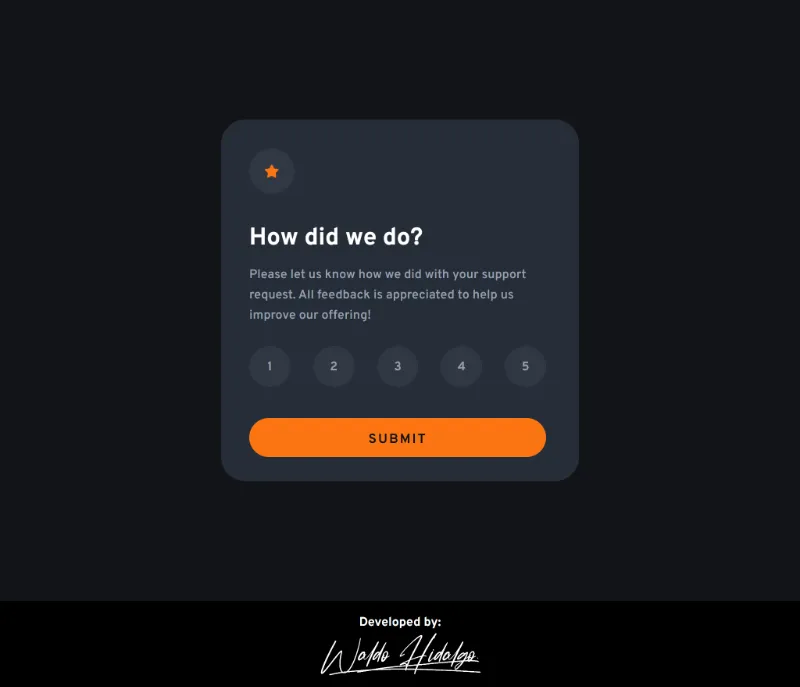
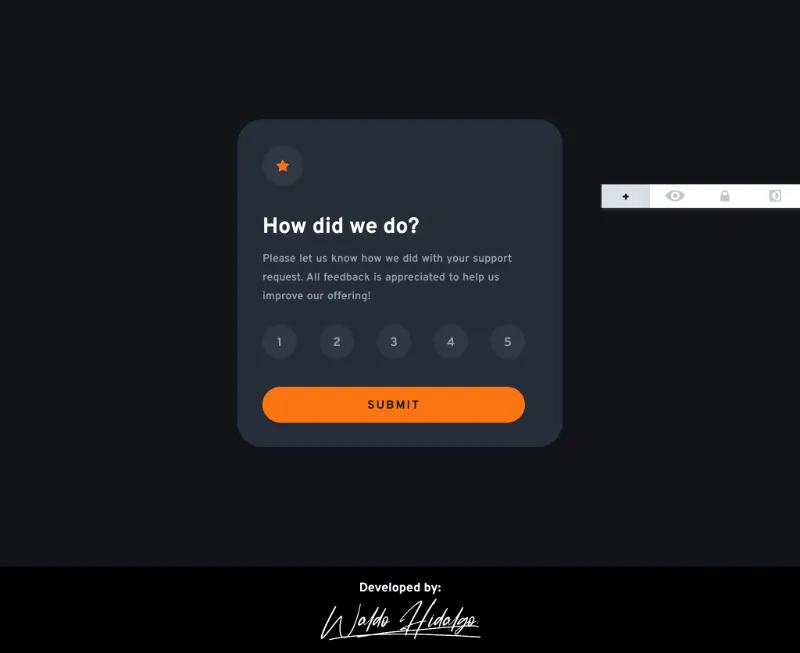
fix scale 1.1 to 1.0

diff --git a/src/components/Question.vue b/src/components/Question.vue
@@ -9,11 +9,11 @@ export default {
 </script>
 
 <template>
-  <div class="p-[27px_20px_31px_24px] sm:p-[37px_42px_31px_36px]">
-    <div class="inline-block p-[11px] bg-lightGray/10 rounded-full sm:p-[20px]">
+  <div class="p-[27px_20px_31px_24px] sm:p-[33px_48px_31px_32px]">
+    <div class="inline-block p-[11px] bg-lightGray/10 rounded-full sm:p-[18px]">
       <svg
         viewBox="0 0 17 16"
-        class="w-[14px] aspect-square sm:w-[18px]"
+        class="w-[14px] aspect-square sm:w-[16px]"
         xmlns="http://www.w3.org/2000/svg"
       >
         <path
@@ -23,18 +23,18 @@ export default {
       </svg>
     </div>
     <h2
-      class="font-bold text-[24px] text-white mt-[15px] sm:mt-[27px] sm:text-[31px]"
+      class="font-bold text-[24px] text-white mt-[15px] sm:mt-[24px] sm:text-[28px]"
     >
       How did we do?
     </h2>
     <p
-      class="text-lightGray mt-[9px] text-[14px] sm:leading-[26px] sm:[word-spacing:0px] sm:font-semibold sm:text-[16px]"
+      class="text-lightGray mt-[9px] text-[14px] sm:leading-[24px] sm:[word-spacing:1px] sm:font-semibold sm:mt-[8px]"
     >
       Please let us know how we did with your support request. All feedback is
       appreciated to help us improve our offering!
     </p>
     <ul
-      class="grid grid-cols-5 mt-[26px] justify-items-center gap-[18px] sm:gap-[29px]"
+      class="grid grid-cols-5 mt-[26px] justify-items-center gap-[18px] sm:gap-[29px] sm:mt-[23px]"
     >
       <li
         v-for="i in [1, 2, 3, 4, 5]"
@@ -52,7 +52,7 @@ export default {
       </li>
     </ul>
     <button
-      class="w-full bg-orange text-[14px] text-veryDarkBlue rounded-full mt-[25px] py-[14px] tracking-[2px] font-bold flex justify-center items-center hover:bg-white sm:mt-[40px] sm:py-[16px] sm:text-[17px]"
+      class="w-full bg-orange text-[14px] text-veryDarkBlue rounded-full mt-[25px] py-[14px] tracking-[2px] font-bold flex justify-center items-center hover:bg-white sm:mt-[36px] sm:py-[14px] sm:text-[15px]"
       aria-label="Submit rating"
       @click="$emit('submitRating')"
     >

diff --git a/src/components/Answer.vue b/src/components/Answer.vue
@@ -9,11 +9,11 @@ export default {
 </script>
 
 <template>
-  <div class="p-[27px_20px_31px_24px] text-center sm:p-[37px_34px_31px_34px]">
+  <div class="p-[27px_20px_31px_24px] text-center sm:p-[29px_25px_31px_25px]">
     <div class="w-fit mx-auto mt-[13px]">
       <svg
         viewBox="0 0 162 108"
-        class="w-[162px] aspect-[162/108] sm:w-[181px]"
+        class="w-[162px] aspect-[162/108] sm:w-[164px]"
         xmlns="http://www.w3.org/2000/svg"
       >
         <g fill="none">
@@ -103,19 +103,19 @@ export default {
       </svg>
     </div>
     <div
-      class="text-orange text-[15px] bg-lightGray/10 p-[9px_14px] w-fit mx-auto mt-[25px] tracking-[0.2px] rounded-[18px/50%] flex justify-center items-center sm:text-[16px] sm:mt-[36px] sm:px-[22px]"
+      class="text-orange text-[15px] bg-lightGray/10 p-[9px_14px] w-fit mx-auto mt-[25px] tracking-[0.2px] rounded-[18px/50%] flex justify-center items-center sm:text-[14px] sm:mt-[30px] sm:px-[22px]"
     >
       <span class="h-[17px] inline-block"
         >You selected {{ rating }} out of 5</span
       >
     </div>
     <h2
-      class="text-white font-bold text-[26px] mt-[32px] sm:mt-[42px] sm:text-[31px]"
+      class="text-white font-bold text-[26px] mt-[32px] sm:mt-[33px] sm:text-[28px]"
     >
       Thank you!
     </h2>
     <p
-      class="text-lightGray text-[15px] mt-[11px] leading-[24px] [word-spacing:1px] sm:mt-[5px] sm:leading-[26px] sm:text-[16px] sm:font-medium sm:pe-[15px]"
+      class="text-lightGray text-[15px] mt-[11px] leading-[24px] [word-spacing:1px] sm:mt-[5px] sm:leading-[24px] sm:text-[15px] sm:font-medium sm:pe-[10px]"
     >
       We appreciate you taking the time to give a rating. If you ever need more
       support, don't hesitate to get in touch!

diff --git a/src/App.vue b/src/App.vue
@@ -32,7 +32,7 @@ export default {
 <template>
   <main class="py-[153px] bg-veryDarkBlue">
     <div
-      class="bg-darkBlue w-[87%] rounded-[13px] mx-auto max-w-[458px] sm:rounded-[31px]"
+      class="bg-darkBlue w-[87%] rounded-[13px] mx-auto max-w-[416px] sm:rounded-[31px]"
     >
       <Answer v-if="isRated" :rating="rating" />
       <Question
